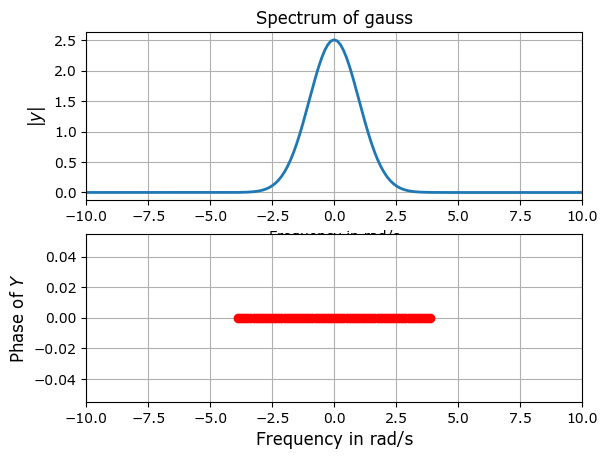
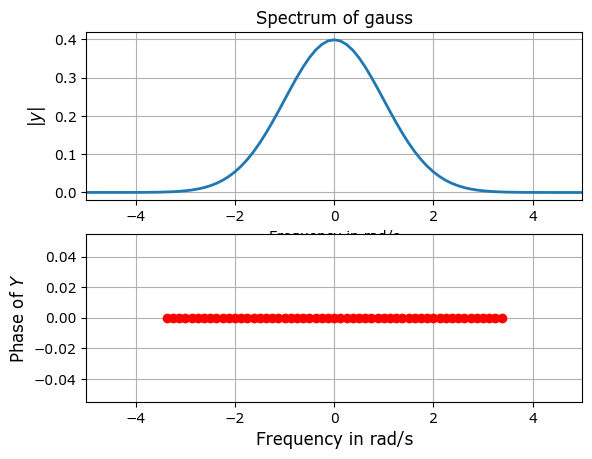
fixed gaussian code

diff --git a/week9/EE19B123_week9.py b/week9/EE19B123_week9.py
@@ -91,12 +91,6 @@ if __name__ =='__main__':
         y= func_dict[func](t)
         Y = fftshift(fft(y))/N
         w = np.linspace(-w_lim,w_lim,steps)[:-1]
-        if func == 'gauss' : 
-            Y = fftshift(np.abs(fft(y)))/N
-            # Normalizing 
-            Y = Y*np.sqrt(2*np.pi)/np.max(Y)
-            Y_ = np.exp(-w**2/2)*np.sqrt(2*np.pi)
-            print(f"max error is {max(np.abs(Y-Y_))}")
 
         customplot(w,Y,
         func =func,
@@ -104,14 +98,43 @@ if __name__ =='__main__':
         xlim = xlim ,
         ylimit = ylimit,
         phase_limit = phase_limit)
-        return Y,w
+
+    def dft_gaussian(func,threshold=1e-6,N=128):
+        '''
+        As questions demainds accuracy till 6 digits we need to iteratively keeps computing till it error falls
+        '''
+        T = 8*np.pi
+        Y_old = 0
+        while True:
+            #Time 
+            dt = T/N
+            #Frequency 
+            dw = 2*np.pi/T
+            W = N*dw
+            t = np.linspace(-T/2,T/2,N+1)[:-1]
+            w = np.linspace(-W/2,W/2,N+1)[:-1]
+            y = gauss(t)
+            Y_new = dt/(2*np.pi) * fftshift(fft(ifftshift(y)))
+            error = np.sum(np.abs(Y_new[::2]) - Y_old)
+            Y_old = Y_new
+            if error < threshold:
+                customplot(w,Y_new,
+                func =func,
+                path ='imgs/Q'+func,
+                xlim = 5,
+                phase_limit = 1e-3 )
+                print(f"Error in Gaussian case is {error}")
+                break
+
+            T*=2
+            N*=2
 
     #sample Questions =========================================
-    Y1,w1= dft('sin', xlim=10)
-    Y2, w2 = dft('modul',xlim=40, ylimit = 1)
+    dft('sin', xlim=10)
+    dft('modul',xlim=40, ylimit = 1)
     #assigments questions =====================================
-    Y3,w3 = dft('cos^3',xlim=15, steps= 129 , w_lim=16, N = 128, ylimit=1)
-    Y4,w4 = dft('sin^3',xlim=15)
-    Y5,w5 = dft('coscos',xlim=40)
-    Y6,w6 =dft('gauss',N=512,r=8*np.pi,w_lim=32,xlim=10)
+    dft('cos^3',xlim=15, steps= 129 , w_lim=16, N = 128, ylimit=1)
+    dft('sin^3',xlim=15)
+    dft('coscos',xlim=40)
+    dft_gaussian('gauss')
 
